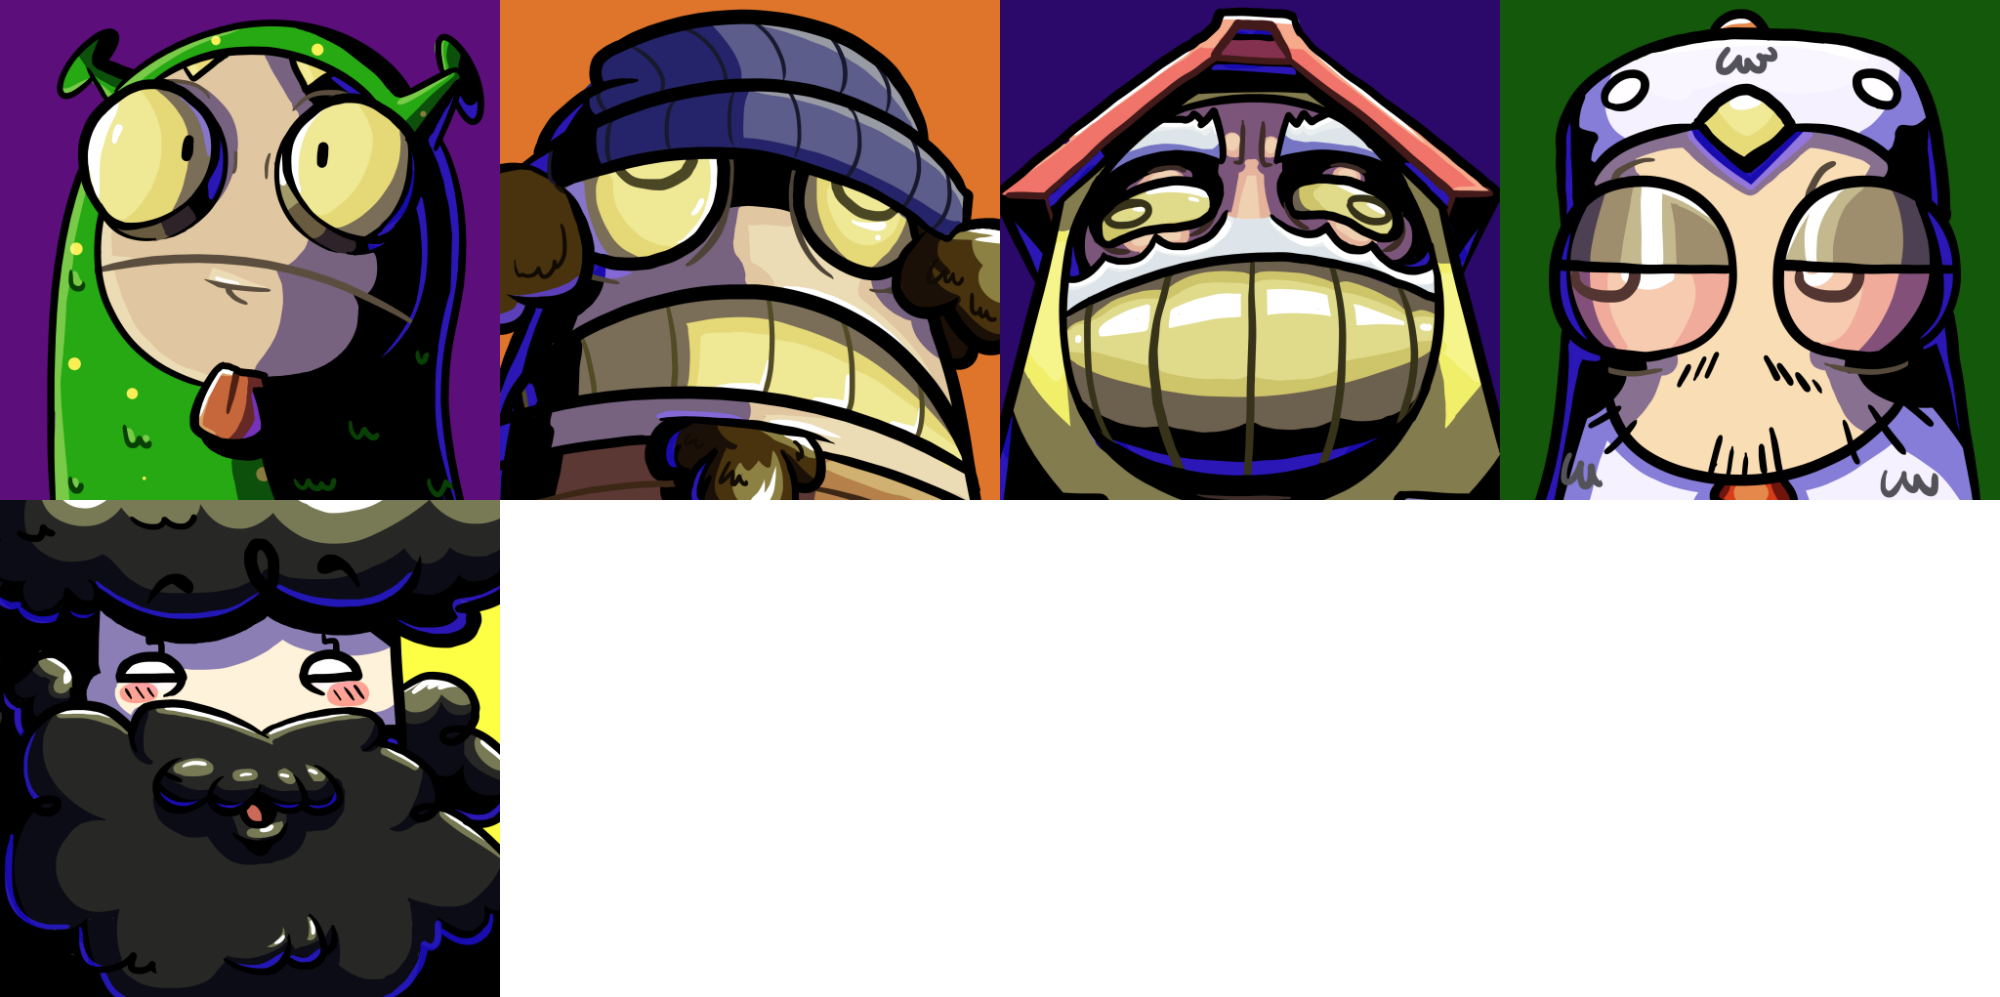
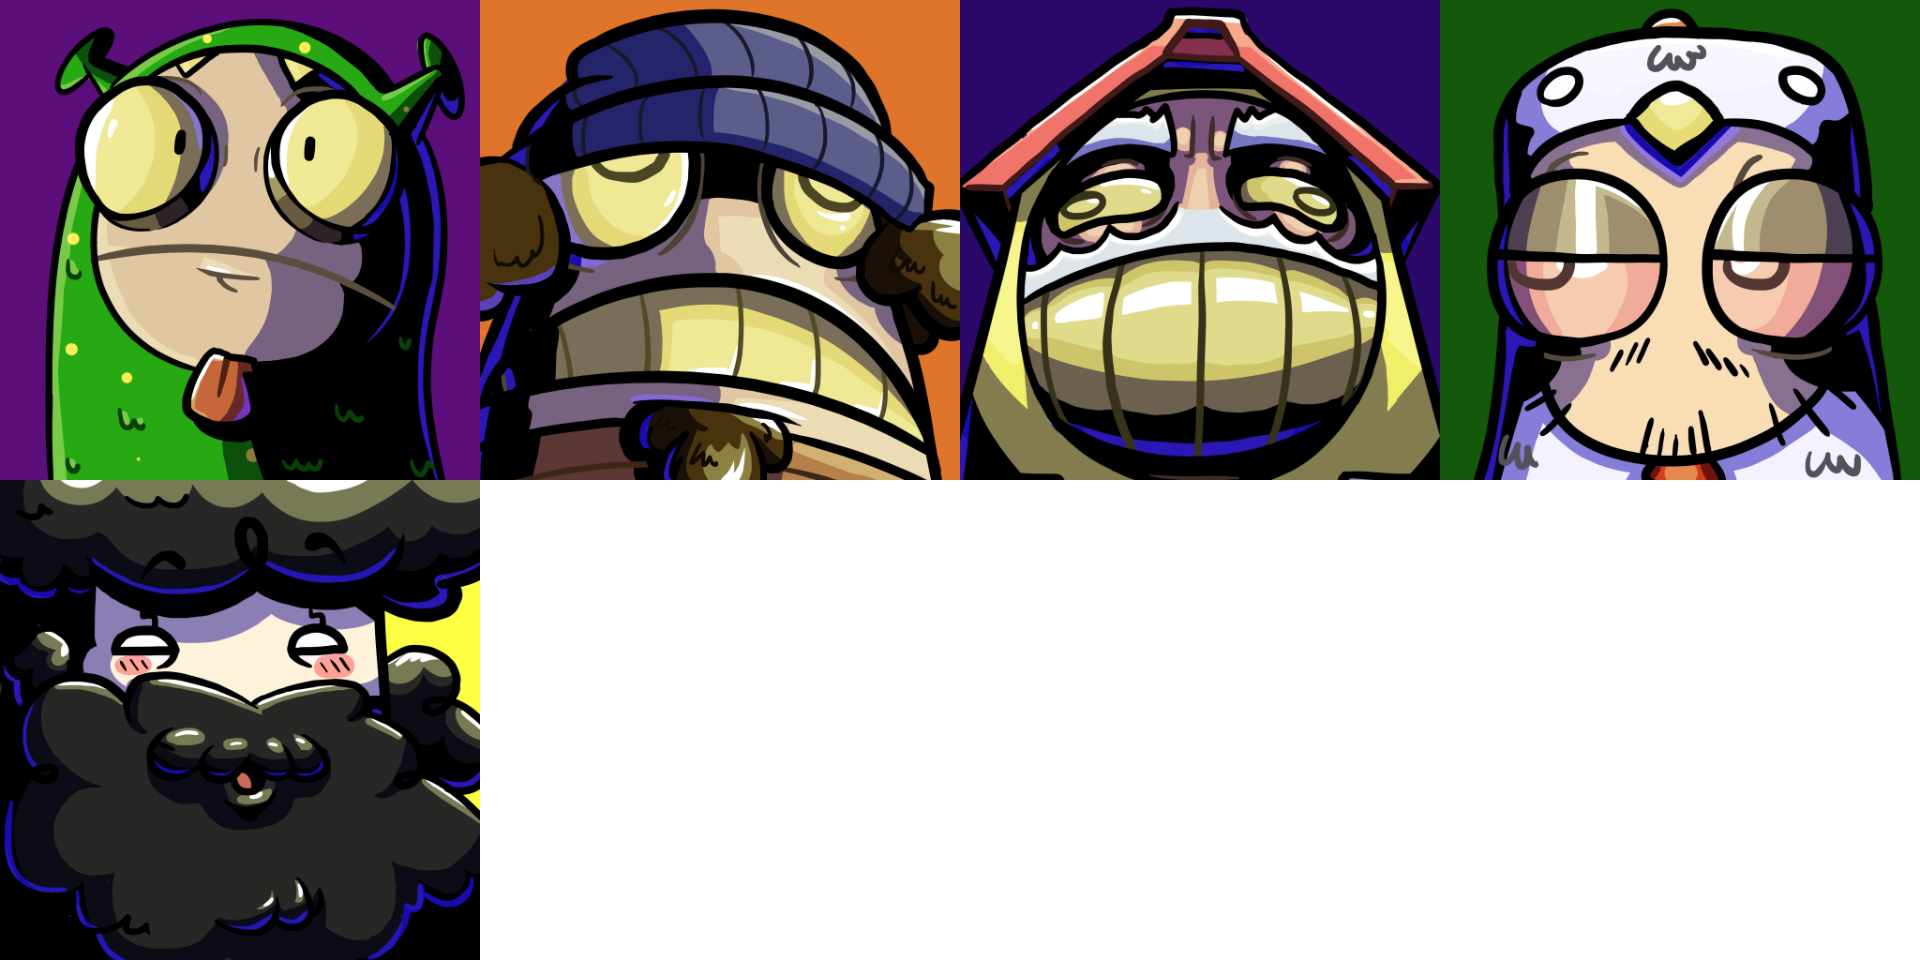
ImgProfiles-SecretCh

diff --git a/styles/styles.css b/styles/styles.css
@@ -186,13 +186,24 @@ body{
 }
 
 .ImgProfiles{
-    background: url(../resources/images/HoboProfiles.png) no-repeat;
-    background-size: cover;
-    height: 83vh;
-    margin-left: auto;
-    margin-right: auto;
+    width: 100%;
+    height: 100%;
+    display: grid;
+    grid-template-columns: 50% 50%;
 }
 
+.SplashImg{
+    width: 100%;
+}
+.SplashImg-SecretCh1{
+    width: 100%;
+}
+.SplashImg-SecretCh2{
+    display: none;
+}
+.SplashImg-SecretCh3{
+    display: none;
+}
 
 @media(min-width: 600px){
     .Hobo-First-Section {
@@ -291,9 +302,22 @@ body{
         margin-bottom: 6vh;
     }
     .ImgProfiles{
-        background: url(../resources/images/HoboProfilesHD.png) no-repeat;
-        background-size: cover;
+        grid-template-columns: 25% 25% 25% 25%;
+        width: 80%;
+        margin-left: auto;
+        margin-right: auto;
+        margin-bottom: 20vh;
+    }
+    .SplashImg-SecretCh1{
+        display: unset;
         width: 100%;
-        height: 89vh;
+    }
+    .SplashImg-SecretCh2{
+        display: unset;
+        width: 100%;
+    }
+    .SplashImg-SecretCh3{
+        display: unset;
+        width: 100%;
     }
 }

diff --git a/main.html b/main.html
@@ -44,7 +44,16 @@
         </div>
         <div class="Hobo-Four-Section">
             <div class="ImgTutorial"></div>
-            <div class="ImgProfiles"></div>
+            <div class="ImgProfiles">
+                <img src="./resources/images/SplashHobo.png" alt="" class="SplashImg">
+                <img src="./resources/images/SplashChicken.png" alt="" class="SplashImg">
+                <img src="./resources/images/SplashHous.png" alt="" class="SplashImg">
+                <img src="./resources/images/SplashAlien.png" alt="" class="SplashImg">
+                <img src="./resources/images/SplashCheeks.png" alt="" class="SplashImg">
+                <img src="./resources/images/SecretCharacter.png" alt="" class="SplashImg-SecretCh1">
+                <img src="./resources/images/SecretCharacter.png" alt="" class="SplashImg-SecretCh2">
+                <img src="./resources/images/SecretCharacter.png" alt="" class="SplashImg-SecretCh3">
+            </div>
         </div>
     </main>
 </body>
